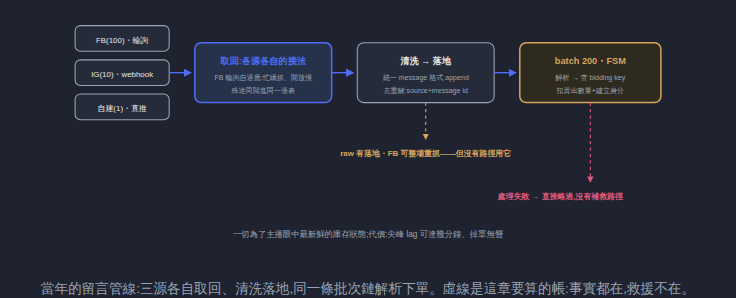
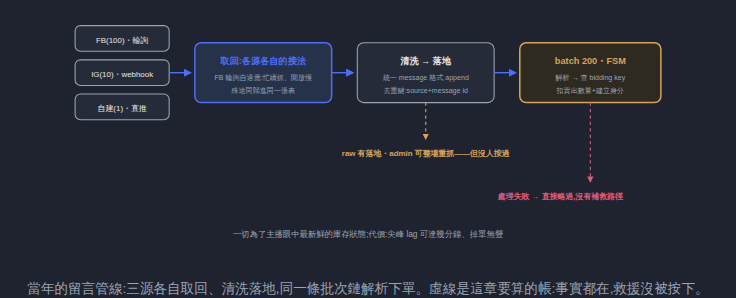
補正 #3:重抓入口其實做了(admin action)但沒人按過,反思補商業考量
作者再補兩個事實:Django admin 當年有做「從 FB 貼文整場重抓」的
action,但主播從沒用過;回頭看,不用重放抓單也有商業考量——直播
處理漏單的方式本來就是現場的(主播重喊、客人再留,急迫感當場吸收),
事後補單不合直播節奏。

- 痛點再重框:從「事實都在、沒有路徑」改為「事實與入口都在、救援
  從沒被發動」;管線圖琥珀註記改為「admin 可整場重抓——但沒人按過」。
- 重來版重點跟著變:缺的不是入口,是「會自己跑的那一半」——靠人
  記得去按的補救,等於沒有補救(dead-letter 自動化的論據)。
- 反思補進商業現實與殘量未測量(呼應風控章的沉默偏差),金句改為
  「留下事實是上半場,決定誰、什麼時候動用它才是下半場」。
- #7/day12 括號措辭同步,roadmap 口述記錄補記,day03-1.png 重產。

Claude-Session: https://claude.ai/code/session_01CvSnMJ1vCjbkh11Qu9m2ih

Changed region(s): [[0.0312, 0.9362, 0.9375, 0.9966], [0.4688, 0.4832, 0.6875, 0.5436]]

diff --git a/src/content/blog/rezero-comment-order.md b/src/content/blog/rezero-comment-order.md
@@ -19,7 +19,7 @@ draft: false
 留言來自三個源:**FB、IG、自建直播間**,流量比例大約 **100:10:1**——FB 是絕對主戰場。三源的取得方式各不相同(全景篇提過的 webhook、輪詢、自家直推),但殊途同歸:**全部落進同一張 message 表,由同一條批次處理鏈消化**。所以這章的抓取故事以 FB 的輪詢為主——流量在這裡,坑也都在這裡。當年的接法樸素到有點可愛:
 
 <figure style="margin:1.5rem 0;text-align:center;">
-  <svg viewBox="0 0 580 252" role="img" aria-label="當年的留言處理管線。左側三個來源,取得方式各不相同:FB 流量占比一百,靠自適應輪詢——連續 job 一輪超過兩秒就帶著 paging key 立刻續抓,空閒就放慢;IG 占比十,走 webhook;自建直播間占比一,自家直推。三源殊途同歸:清洗成統一 message 格式後 append 進同一張資料表,raw 原文也留了下來。下游是同一條批次處理鏈,每批兩百筆,用 FSM 解析、查 bidding key、扣賣出數量並建立身分。兩處虛線標註:raw 有落地、FB 還能事後整場重抓,但沒有任何重放路徑去用它;處理失敗直接略過、沒有補救路徑,尖峰時延遲可達幾分鐘——事實都在,救援不在。" style="width:100%;max-width:620px;height:auto;margin:0 auto;">
+  <svg viewBox="0 0 580 252" role="img" aria-label="當年的留言處理管線。左側三個來源,取得方式各不相同:FB 流量占比一百,靠自適應輪詢——連續 job 一輪超過兩秒就帶著 paging key 立刻續抓,空閒就放慢;IG 占比十,走 webhook;自建直播間占比一,自家直推。三源殊途同歸:清洗成統一 message 格式後 append 進同一張資料表,raw 原文也留了下來。下游是同一條批次處理鏈,每批兩百筆,用 FSM 解析、查 bidding key、扣賣出數量並建立身分。兩處虛線標註:raw 有落地、admin 甚至做了從 FB 貼文整場重抓的 action,但從來沒人用過;處理失敗直接略過、沒有補救路徑,尖峰時延遲可達幾分鐘——事實都在,救援沒被按下。" style="width:100%;max-width:620px;height:auto;margin:0 auto;">
     <defs><marker id="rcf" markerWidth="7" markerHeight="7" refX="5" refY="3" orient="auto"><path d="M0,0 L0,6 L6,3 z" fill="#4f6df5"/></marker><marker id="rcp" markerWidth="7" markerHeight="7" refX="5" refY="3" orient="auto"><path d="M0,0 L0,6 L6,3 z" fill="#e05a7d"/></marker><marker id="rca" markerWidth="7" markerHeight="7" refX="5" refY="3" orient="auto"><path d="M0,0 L0,6 L6,3 z" fill="#d6a45c"/></marker></defs>
     <rect x="16" y="24" width="88" height="24" rx="5" fill="#262b3a" stroke="#9aa4b2" stroke-width="1"/><text x="60" y="40" fill="#e6e6e6" font-size="7.4" text-anchor="middle">FB(100)・輪詢</text>
     <rect x="16" y="56" width="88" height="24" rx="5" fill="#262b3a" stroke="#9aa4b2" stroke-width="1"/><text x="60" y="72" fill="#e6e6e6" font-size="7.4" text-anchor="middle">IG(10)・webhook</text>
@@ -40,19 +40,19 @@ draft: false
     <text x="498" y="75" fill="#9aa4b2" font-size="6.6" text-anchor="middle">解析 → 查 bidding key</text>
     <text x="498" y="87" fill="#9aa4b2" font-size="6.6" text-anchor="middle">扣賣出數量+建立身分</text>
     <line x1="344" y1="96" x2="344" y2="130" stroke="#d6a45c" stroke-width="1" stroke-dasharray="3 3" marker-end="url(#rca)"/>
-    <text x="344" y="146" fill="#d6a45c" font-size="7.4" text-anchor="middle" font-weight="bold">raw 有落地・FB 可整場重抓——但沒有路徑用它</text>
+    <text x="344" y="146" fill="#d6a45c" font-size="7.4" text-anchor="middle" font-weight="bold">raw 有落地・admin 可整場重抓——但沒人按過</text>
     <line x1="498" y1="96" x2="498" y2="170" stroke="#e05a7d" stroke-width="1" stroke-dasharray="3 3" marker-end="url(#rcp)"/>
     <text x="470" y="186" fill="#e05a7d" font-size="7.4" text-anchor="middle" font-weight="bold">處理失敗 → 直接略過,沒有補救路徑</text>
     <text x="290" y="222" fill="#9aa4b2" font-size="7.8" text-anchor="middle">一切為了主播眼中最新鮮的庫存狀態;代價:尖峰 lag 可達幾分鐘、掉單無聲</text>
   </svg>
-  <figcaption style="font-size:.85rem;color:#9aa4b2;margin-top:.4rem;">當年的留言管線:三源各自取回、清洗落地,同一條批次鏈解析下單。虛線是這章要算的帳:事實都在,救援不在。</figcaption>
+  <figcaption style="font-size:.85rem;color:#9aa4b2;margin-top:.4rem;">當年的留言管線:三源各自取回、清洗落地,同一條批次鏈解析下單。虛線是這章要算的帳:事實都在,救援沒被按下。</figcaption>
 </figure>
 
 三個細節值得放大:
 
 - **FB 的輪詢,是一個自調的速率控制器。** 一輪抓完看耗時:超過 2 秒代表留言正湧入,帶著 paging key 立刻接著抓;低於 2 秒代表場子冷,把間隔放慢一點。不用外部設定、不用監控儀表,迴圈自己感知流量、自己調速——小團隊憑直覺做出來的東西,事後看是很標準的 adaptive polling。要付的代價在下游:三源殊途同歸之後**擠在同一條批次處理鏈上**,FB 爆量時,IG 和自建的單也跟著在佇列裡排隊——FB 的洪峰,是所有人的延遲。
 - **去重鍵選對了:`source + message id`。** 輪詢一定會抓到重疊區間,靠平台原生的留言 ID 當唯一鍵,重抓幾次都不會重複入庫——這是接入層的冪等,做對了後面全順。
-- **raw 有留、FB 還能重抓——但沒有一條路用它。** 留言清洗成自訂 message 格式落地,raw 原文其實也留了下來;真要追究,FB 的直播留言就是貼文底下的留言,事後還能整場重抓(順序會和直播中抓到的稍有出入)。事實層的保險,當年其實買齊了——但下游沒有任何一條系統化的路徑去動用:失敗的單沒人拿 raw 重放,清洗規則漏接也沒有回測管線。保險買了,理賠流程沒建。
+- **raw 有留、重抓入口也做了——但救援從來沒發動過。** 留言清洗成自訂 message 格式落地,raw 原文其實也留了下來;FB 的直播留言就是貼文底下的留言,事後能整場重抓(順序會和直播中抓到的稍有出入)——而且 Django admin 裡真的做了一顆「從 FB 貼文重抓」的 action。事實層的保險買齊了、理賠窗口也開了,但從來沒有人來理賠:主播沒按過那顆按鈕,失敗的單沒人拿 raw 重放,清洗規則漏接也沒有回測管線。
 
 ## 解析:一個為拇指設計的迷你語言
 
@@ -188,7 +188,7 @@ class CommentsFSM:
 
 當年最痛的取捨在管線末端:batch 沒有進度記錄,**處理失敗的留言直接略過**——那位客人的單無聲消失。這是刻意的:停下來救單,主播眼中的庫存就舊了;跳過,數字永遠最新。**為了主播的新鮮度,犧牲顧客的完整性。**
 
-重來版不推翻這個優先序,要補的是它缺的另一半。當年「留下事實」這一半其實做對了——raw 有落地、message 有留、FB 還能整場重抓;缺的是**用事實救人的那一半**,一條不擋快路徑的慢速補救線:
+重來版不推翻這個優先序,要補的是它缺的另一半。當年「留下事實」這一半其實做對了——raw 有落地、message 有留,admin 甚至有手動重抓的入口;缺的是**會自己跑的那一半**——靠人記得去按的補救,等於沒有補救。要的是一條不擋快路徑、也不等人想起來的慢速補救線:
 
 - **每源一條處理鏈**(取回端本來就各自獨立),FB 的洪峰不再拖著 IG 和自建的單一起排隊;
 - **把留著的 raw 升格為正式的[[ddia-streaming|事件流]]資產**——不只是存著,而是接上重放與回測的入口:清洗規則漏接,重放就能補;
@@ -209,4 +209,4 @@ class CommentsFSM:
 
 ### 誠實面對那條虛線
 
-但我不想把當年美化成處處是智慧。圖上那條紅色虛線——失敗直接略過——是真實傷過客人的:失敗的單無聲消失,而我們**連道歉都不知道要跟誰道**。最不甘心的是,這不是「事實丟了救不回」的悲劇:raw 有落地、FB 還能整場重抓,**救援需要的每一分事實都在**,缺的只是一條把它們接回系統的路徑——沒有 dead-letter、沒有重放、沒有回測。這一刀不是技術難題,是當年把「留下事實」當成了終點。如果這系列只能帶走一句話,我希望是這句:**留下事實只是上半場,接上用它的路徑才是下半場**——對掉單的客人來說,躺在倉庫裡的 raw,和不存在的 raw,是同一回事。
+但我不想把當年美化成處處是智慧。圖上那條紅色虛線——失敗直接略過——是真實傷過客人的:失敗的單無聲消失,而我們**連道歉都不知道要跟誰道**。最不甘心的是,這不是「事實丟了救不回」的悲劇:raw 有落地,admin 裡甚至有那顆「整場重抓」的按鈕——**救援需要的事實和入口都在,只是從來沒被按下**。回頭看,沒按也不全是怠惰,裡面有商業的現實:這門生意處理漏單的方式本來就是現場的——主播再喊一次、客人再留一次,急迫感把大多數傷害當場吸收掉了;事後由系統悄悄補單,反而不是直播的節奏。但「大多數被吸收」不等於「沒有人受傷」,而那個殘量我們從來沒量過——沒收到抱怨,往往只是因為客人不知道自己該抱怨。如果這系列只能帶走一句話,我希望是這句:**留下事實是上半場,決定「誰、什麼時候動用它」才是下半場**——躺在倉庫裡的 raw、沒人按的按鈕,對掉單的客人來說,和不存在是同一回事。

diff --git a/docs/ironman/day03.md b/docs/ironman/day03.md
@@ -6,13 +6,13 @@
 
 留言來自三個源:**FB、IG、自建直播間**,流量比例大約 **100:10:1**——FB 是絕對主戰場。三源的取得方式各不相同(Day 1 提過的 webhook、輪詢、自家直推),但殊途同歸:**全部落進同一張 message 表,由同一條批次處理鏈消化**。所以這章的抓取故事以 FB 的輪詢為主——流量在這裡,坑也都在這裡。當年的接法樸素到有點可愛:
 
-![當年的留言管線:三源各自取回、清洗落地,同一條批次鏈解析下單。虛線是這章要算的帳:事實都在,救援不在。](day03-1.png)
+![當年的留言管線:三源各自取回、清洗落地,同一條批次鏈解析下單。虛線是這章要算的帳:事實都在,救援沒被按下。](day03-1.png)
 
 三個細節值得放大:
 
 - **FB 的輪詢,是一個自調的速率控制器。** 一輪抓完看耗時:超過 2 秒代表留言正湧入,帶著 paging key 立刻接著抓;低於 2 秒代表場子冷,把間隔放慢一點。不用外部設定、不用監控儀表,迴圈自己感知流量、自己調速——小團隊憑直覺做出來的東西,事後看是很標準的 adaptive polling。要付的代價在下游:三源殊途同歸之後**擠在同一條批次處理鏈上**,FB 爆量時,IG 和自建的單也跟著在佇列裡排隊——FB 的洪峰,是所有人的延遲。
 - **去重鍵選對了:`source + message id`。** 輪詢一定會抓到重疊區間,靠平台原生的留言 ID 當唯一鍵,重抓幾次都不會重複入庫——這是接入層的冪等,做對了後面全順。
-- **raw 有留、FB 還能重抓——但沒有一條路用它。** 留言清洗成自訂 message 格式落地,raw 原文其實也留了下來;真要追究,FB 的直播留言就是貼文底下的留言,事後還能整場重抓(順序會和直播中抓到的稍有出入)。事實層的保險,當年其實買齊了——但下游沒有任何一條系統化的路徑去動用:失敗的單沒人拿 raw 重放,清洗規則漏接也沒有回測管線。保險買了,理賠流程沒建。
+- **raw 有留、重抓入口也做了——但救援從來沒發動過。** 留言清洗成自訂 message 格式落地,raw 原文其實也留了下來;FB 的直播留言就是貼文底下的留言,事後能整場重抓(順序會和直播中抓到的稍有出入)——而且 Django admin 裡真的做了一顆「從 FB 貼文重抓」的 action。事實層的保險買齊了、理賠窗口也開了,但從來沒有人來理賠:主播沒按過那顆按鈕,失敗的單沒人拿 raw 重放,清洗規則漏接也沒有回測管線。
 
 ## 順序與重複:LWW 的三個先決問題
 
@@ -26,7 +26,7 @@
 
 當年最痛的取捨在管線末端:batch 沒有進度記錄,**處理失敗的留言直接略過**——那位客人的單無聲消失。這是刻意的:停下來救單,主播眼中的庫存就舊了;跳過,數字永遠最新。**為了主播的新鮮度,犧牲顧客的完整性。**
 
-重來版不推翻這個優先序,要補的是它缺的另一半。當年「留下事實」這一半其實做對了——raw 有落地、message 有留、FB 還能整場重抓;缺的是**用事實救人的那一半**,一條不擋快路徑的慢速補救線:
+重來版不推翻這個優先序,要補的是它缺的另一半。當年「留下事實」這一半其實做對了——raw 有落地、message 有留,admin 甚至有手動重抓的入口;缺的是**會自己跑的那一半**——靠人記得去按的補救,等於沒有補救。要的是一條不擋快路徑、也不等人想起來的慢速補救線:
 
 - **每源一條處理鏈**(取回端本來就各自獨立),FB 的洪峰不再拖著 IG 和自建的單一起排隊;
 - **把留著的 raw 升格為正式的事件流資產**——不只是存著,而是接上重放與回測的入口:清洗規則漏接,重放就能補;
@@ -39,7 +39,7 @@
 
 ### 誠實面對那條虛線
 
-但我不想把當年美化成處處是智慧。圖上那條紅色虛線——失敗直接略過——是真實傷過客人的:失敗的單無聲消失,而我們**連道歉都不知道要跟誰道**。最不甘心的是,這不是「事實丟了救不回」的悲劇:raw 有落地、FB 還能整場重抓,**救援需要的每一分事實都在**,缺的只是一條把它們接回系統的路徑——沒有 dead-letter、沒有重放、沒有回測。這一刀不是技術難題,是當年把「留下事實」當成了終點。如果這系列只能帶走一句話,我希望是這句:**留下事實只是上半場,接上用它的路徑才是下半場**——對掉單的客人來說,躺在倉庫裡的 raw,和不存在的 raw,是同一回事。
+但我不想把當年美化成處處是智慧。圖上那條紅色虛線——失敗直接略過——是真實傷過客人的:失敗的單無聲消失,而我們**連道歉都不知道要跟誰道**。最不甘心的是,這不是「事實丟了救不回」的悲劇:raw 有落地,admin 裡甚至有那顆「整場重抓」的按鈕——**救援需要的事實和入口都在,只是從來沒被按下**。回頭看,沒按也不全是怠惰,裡面有商業的現實:這門生意處理漏單的方式本來就是現場的——主播再喊一次、客人再留一次,急迫感把大多數傷害當場吸收掉了;事後由系統悄悄補單,反而不是直播的節奏。但「大多數被吸收」不等於「沒有人受傷」,而那個殘量我們從來沒量過——沒收到抱怨,往往只是因為客人不知道自己該抱怨。如果這系列只能帶走一句話,我希望是這句:**留下事實是上半場,決定「誰、什麼時候動用它」才是下半場**——躺在倉庫裡的 raw、沒人按的按鈕,對掉單的客人來說,和不存在是同一回事。
 
 這條管線的心臟——把留言變成訂單的那台手寫狀態機——值得專門一天。明天,我們直接讀它的程式碼。
 

diff --git a/docs/rezero-live-commerce-series-roadmap.md b/docs/rezero-live-commerce-series-roadmap.md
@@ -94,7 +94,7 @@
 - **單一行程的連續定時 job**,依序抓自建 → FB → IG 的留言。
 - **自適應抓取節奏**:一輪做完看耗時,超過 2 秒就帶著 paging key 立刻接著抓下一頁;沒超過就把間隔拉長一點。
 - **去重鍵:source name + source message id**。
-- 抓進來**直接清洗成自訂的 message 格式後 append 進 DB**(先落地、後處理);**raw 原文也有保留**(2026-08-16 作者查證 repo 更正:先前記的「raw 不保留」有誤)。另補:**FB 留言事後可整場重抓**(直播=貼文,留言掛在貼文下),但直播中抓與事後回看抓的**順序稍有不同**——落地順序仍是唯一可信的時間線(#3 LWW 時鐘的旁證)。當年痛點據此重框:不是「事實丟了」,是**事實都在、卻沒有補救路徑去動用**(失敗略過的單沒人拿 raw 重放、清洗規則沒有回測管線);#3 相關段落與圖已改寫。
+- 抓進來**直接清洗成自訂的 message 格式後 append 進 DB**(先落地、後處理);**raw 原文也有保留**(2026-08-16 作者查證 repo 更正:先前記的「raw 不保留」有誤)。另補:**FB 留言事後可整場重抓**(直播=貼文,留言掛在貼文下),但直播中抓與事後回看抓的**順序稍有不同**——落地順序仍是唯一可信的時間線(#3 LWW 時鐘的旁證)。再補(同日):**Django admin 有做「從 FB 貼文整場重抓」的 action,但主播從沒用過**;作者回頭看,不用重放抓單也有商業考量——直播處理漏單的方式本來就是現場的(主播重喊、客人再留,急迫感當場吸收),事後補單不合直播節奏。當年痛點據此重框:不是「事實丟了」,是**事實與入口都在、救援從沒被發動**(失敗略過的單沒人拿 raw 重放、清洗規則沒有回測管線、重抓按鈕沒人按);#3 相關段落與圖已改寫,重來版重點=自動化的慢速補救線(靠人記得去按的補救等於沒有補救)。
 - 下游 **batch 每次 200 筆**,用**自建的有限狀態機(FSM)**判斷是否命中 key 與數量;命中就**嘗試扣庫存並建立身分**。
 - **沒有 batch 進度記錄;處理失敗直接略過**——該使用者的單無聲消失(最大痛點之一)。刻意取捨:為了讓主播看到最快的庫存狀態,freshness 優先於 completeness。
 - **「取最後一筆」的實作**:改購物車數量、把差額補回**賣出數量表**(帶副作用的 LWW)。**覆蓋粒度是 key+style 級**:後留的 `A01藍+1` 只蓋藍色,紅色保留(先前記的「混合」是口誤,已更正)。

diff --git a/src/content/blog/rezero-payment.md b/src/content/blog/rezero-payment.md
@@ -106,7 +106,7 @@ draft: false
 - **亂序?** 五筆部分付款誰先到誰後到,根本不重要——事實各自落地,`SUM` 是讀的時候算的。
 - **沒來?** polling 排程會把漏掉的事實補上——而且因為冪等,polling 和 webhook 重疊也無害,雙通道互為備援。
 
-三套防禦的成本歸零,因為**沒有可以被打壞的狀態**。這是整個系列「事實 append、狀態派生」主旋律的最終回收:同一個原則,在[[rezero-comment-order|留言層]]教過你事實要接上路徑才算數(raw 留了,重放的路沒建)、在[[rezero-inventory|庫存層]]給了你對帳、在金流層直接讓最兇的一類 bug 絕種。
+三套防禦的成本歸零,因為**沒有可以被打壞的狀態**。這是整個系列「事實 append、狀態派生」主旋律的最終回收:同一個原則,在[[rezero-comment-order|留言層]]教過你事實要接上路徑才算數(raw 躺在庫裡,重放從沒發動)、在[[rezero-inventory|庫存層]]給了你對帳、在金流層直接讓最兇的一類 bug 絕種。
 
 對帳也順著這個結構分了級:某家銀行的付款記錄會帶 orders payment id,**自動對回**;現金靠營運標記——又是一個「自動收大宗、人工收殘量」的漏斗,跟[[rezero-identity|身分章]]的綁定漏斗同構。
 

diff --git a/docs/ironman/day12.md b/docs/ironman/day12.md
@@ -12,7 +12,7 @@
 - **亂序?** 五筆部分付款誰先到誰後到,根本不重要——事實各自落地,`SUM` 是讀的時候算的。
 - **沒來?** polling 排程會把漏掉的事實補上——而且因為冪等,polling 和 webhook 重疊也無害,雙通道互為備援。
 
-三套防禦的成本歸零,因為**沒有可以被打壞的狀態**。這是整個系列「事實 append、狀態派生」主旋律的最終回收:同一個原則,在留言層教過你事實要接上路徑才算數(raw 留了,重放的路沒建)、在庫存層給了你對帳、在金流層直接讓最兇的一類 bug 絕種。
+三套防禦的成本歸零,因為**沒有可以被打壞的狀態**。這是整個系列「事實 append、狀態派生」主旋律的最終回收:同一個原則,在留言層教過你事實要接上路徑才算數(raw 躺在庫裡,重放從沒發動)、在庫存層給了你對帳、在金流層直接讓最兇的一類 bug 絕種。
 
 對帳也順著這個結構分了級:某家銀行的付款記錄會帶 orders payment id,**自動對回**;現金靠營運標記——又是一個「自動收大宗、人工收殘量」的漏斗,跟身分章的綁定漏斗同構。
 
